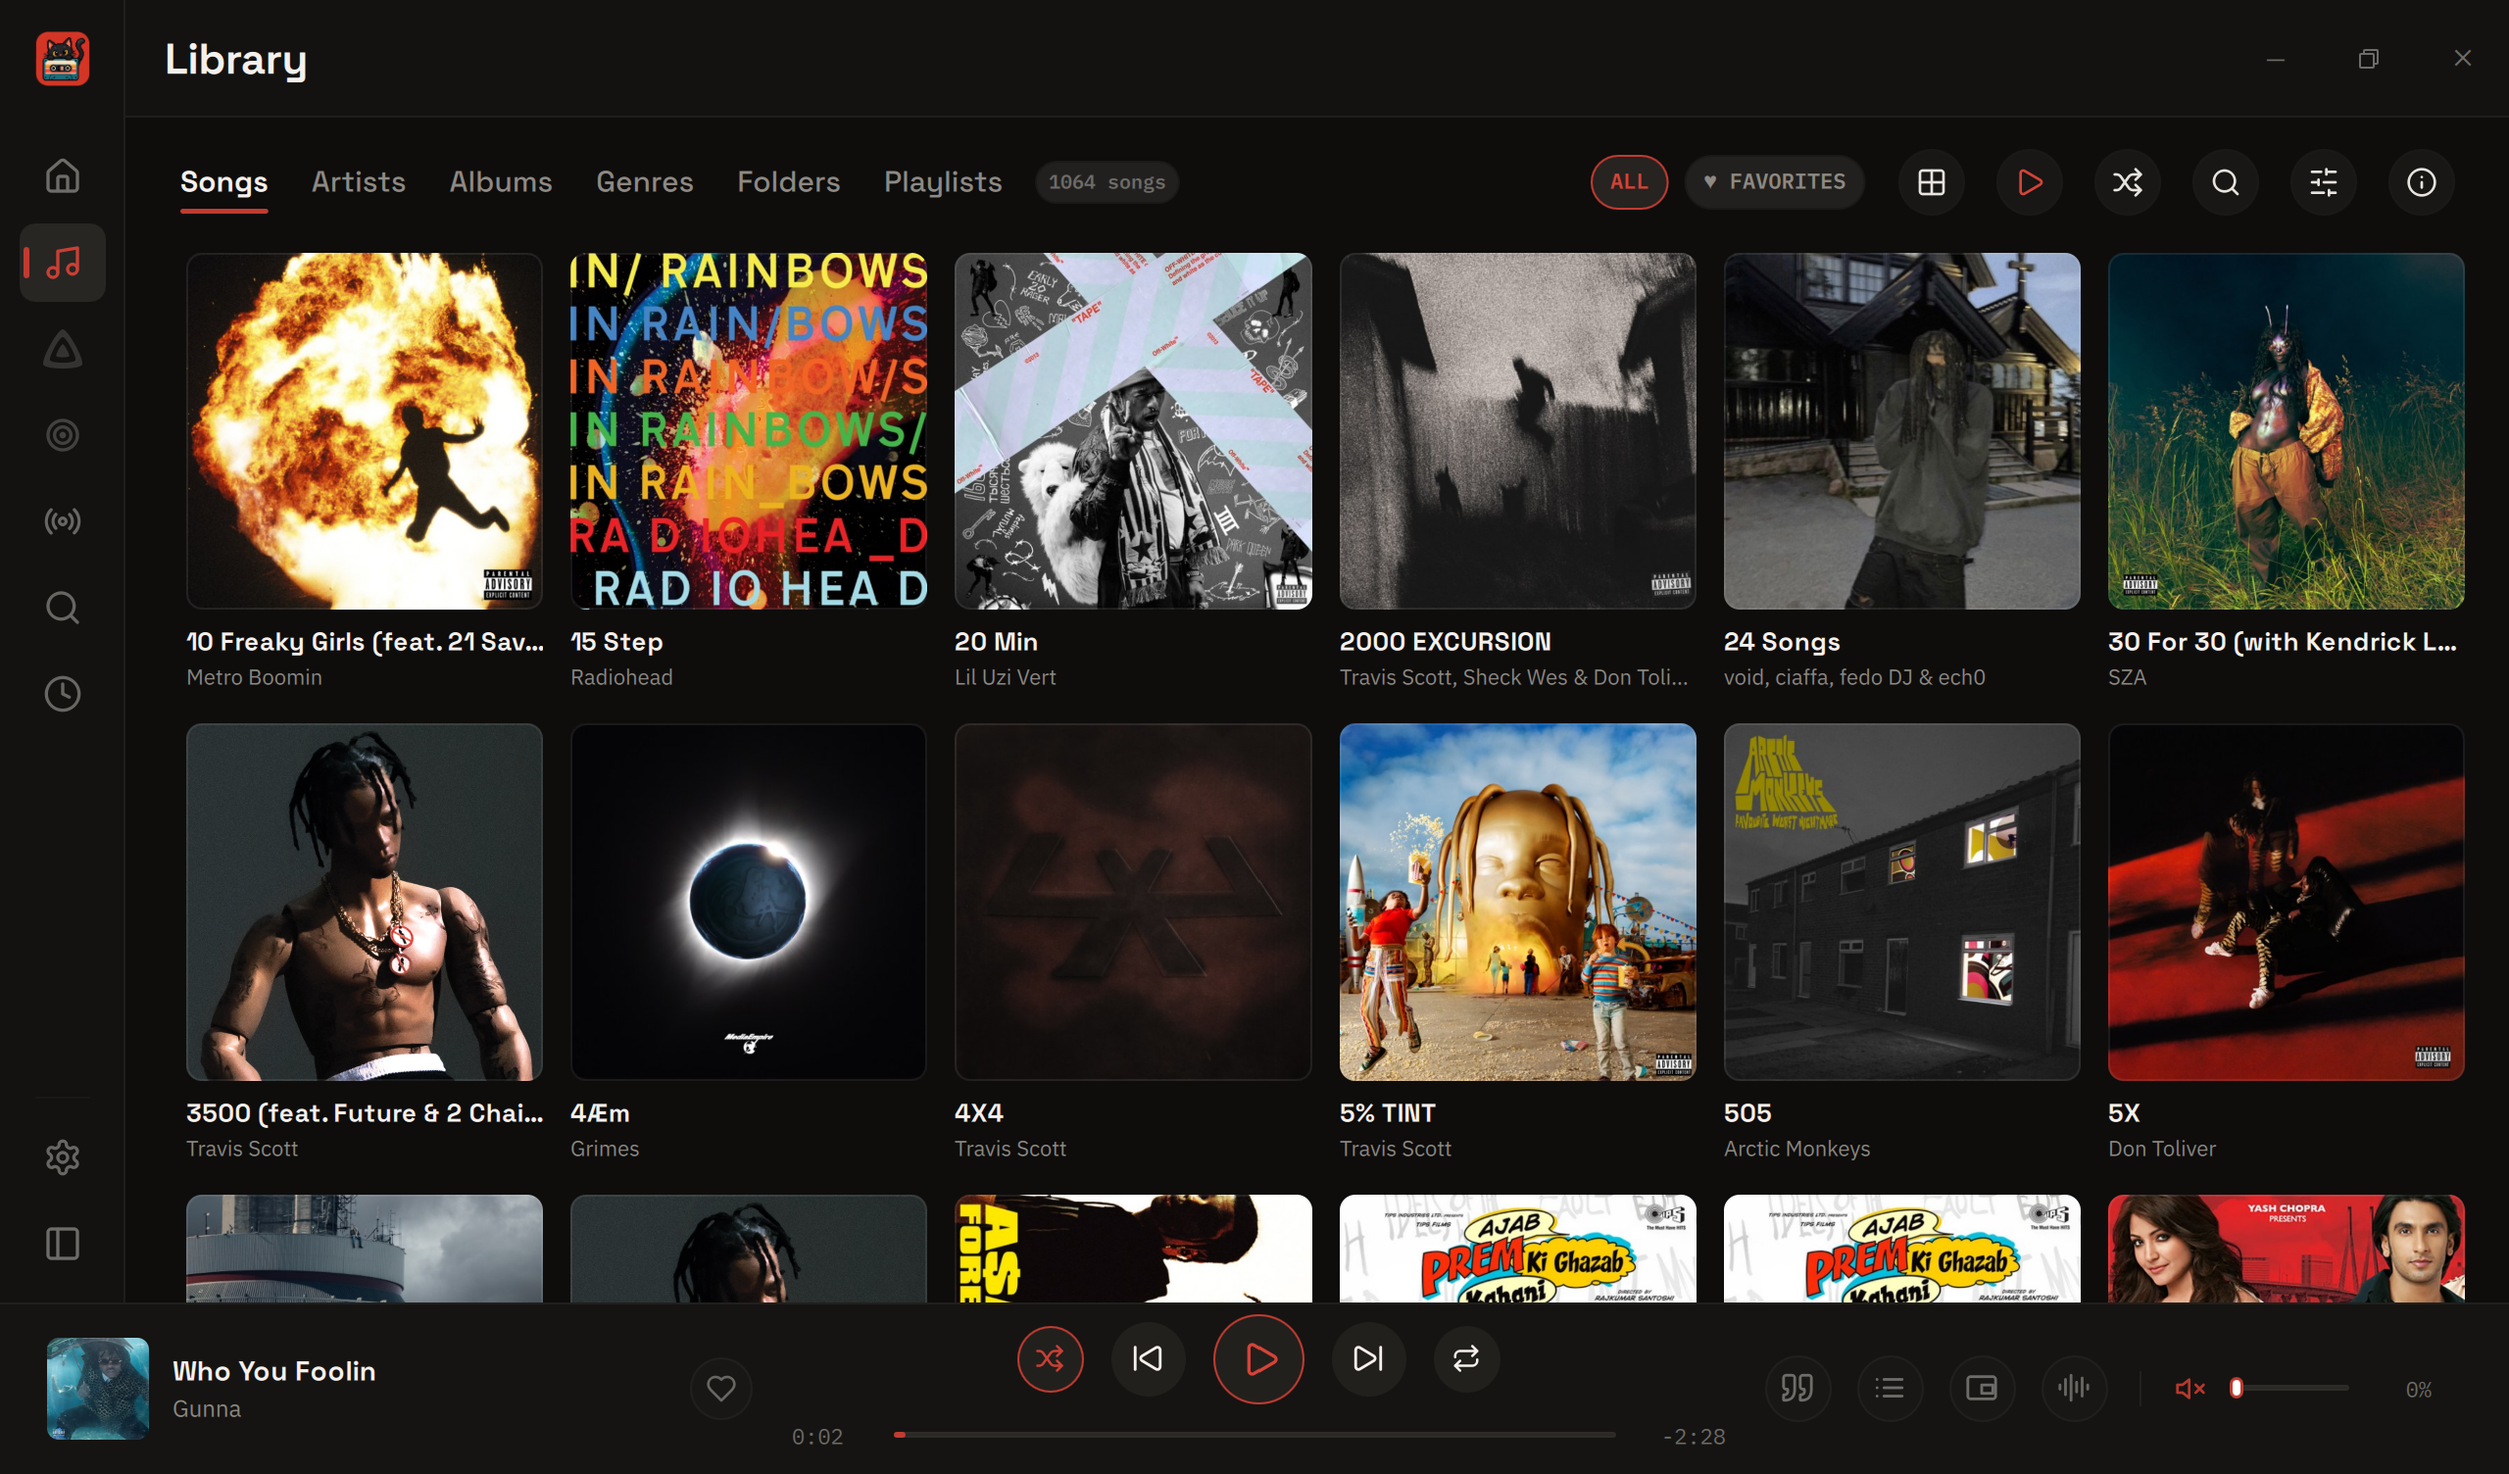
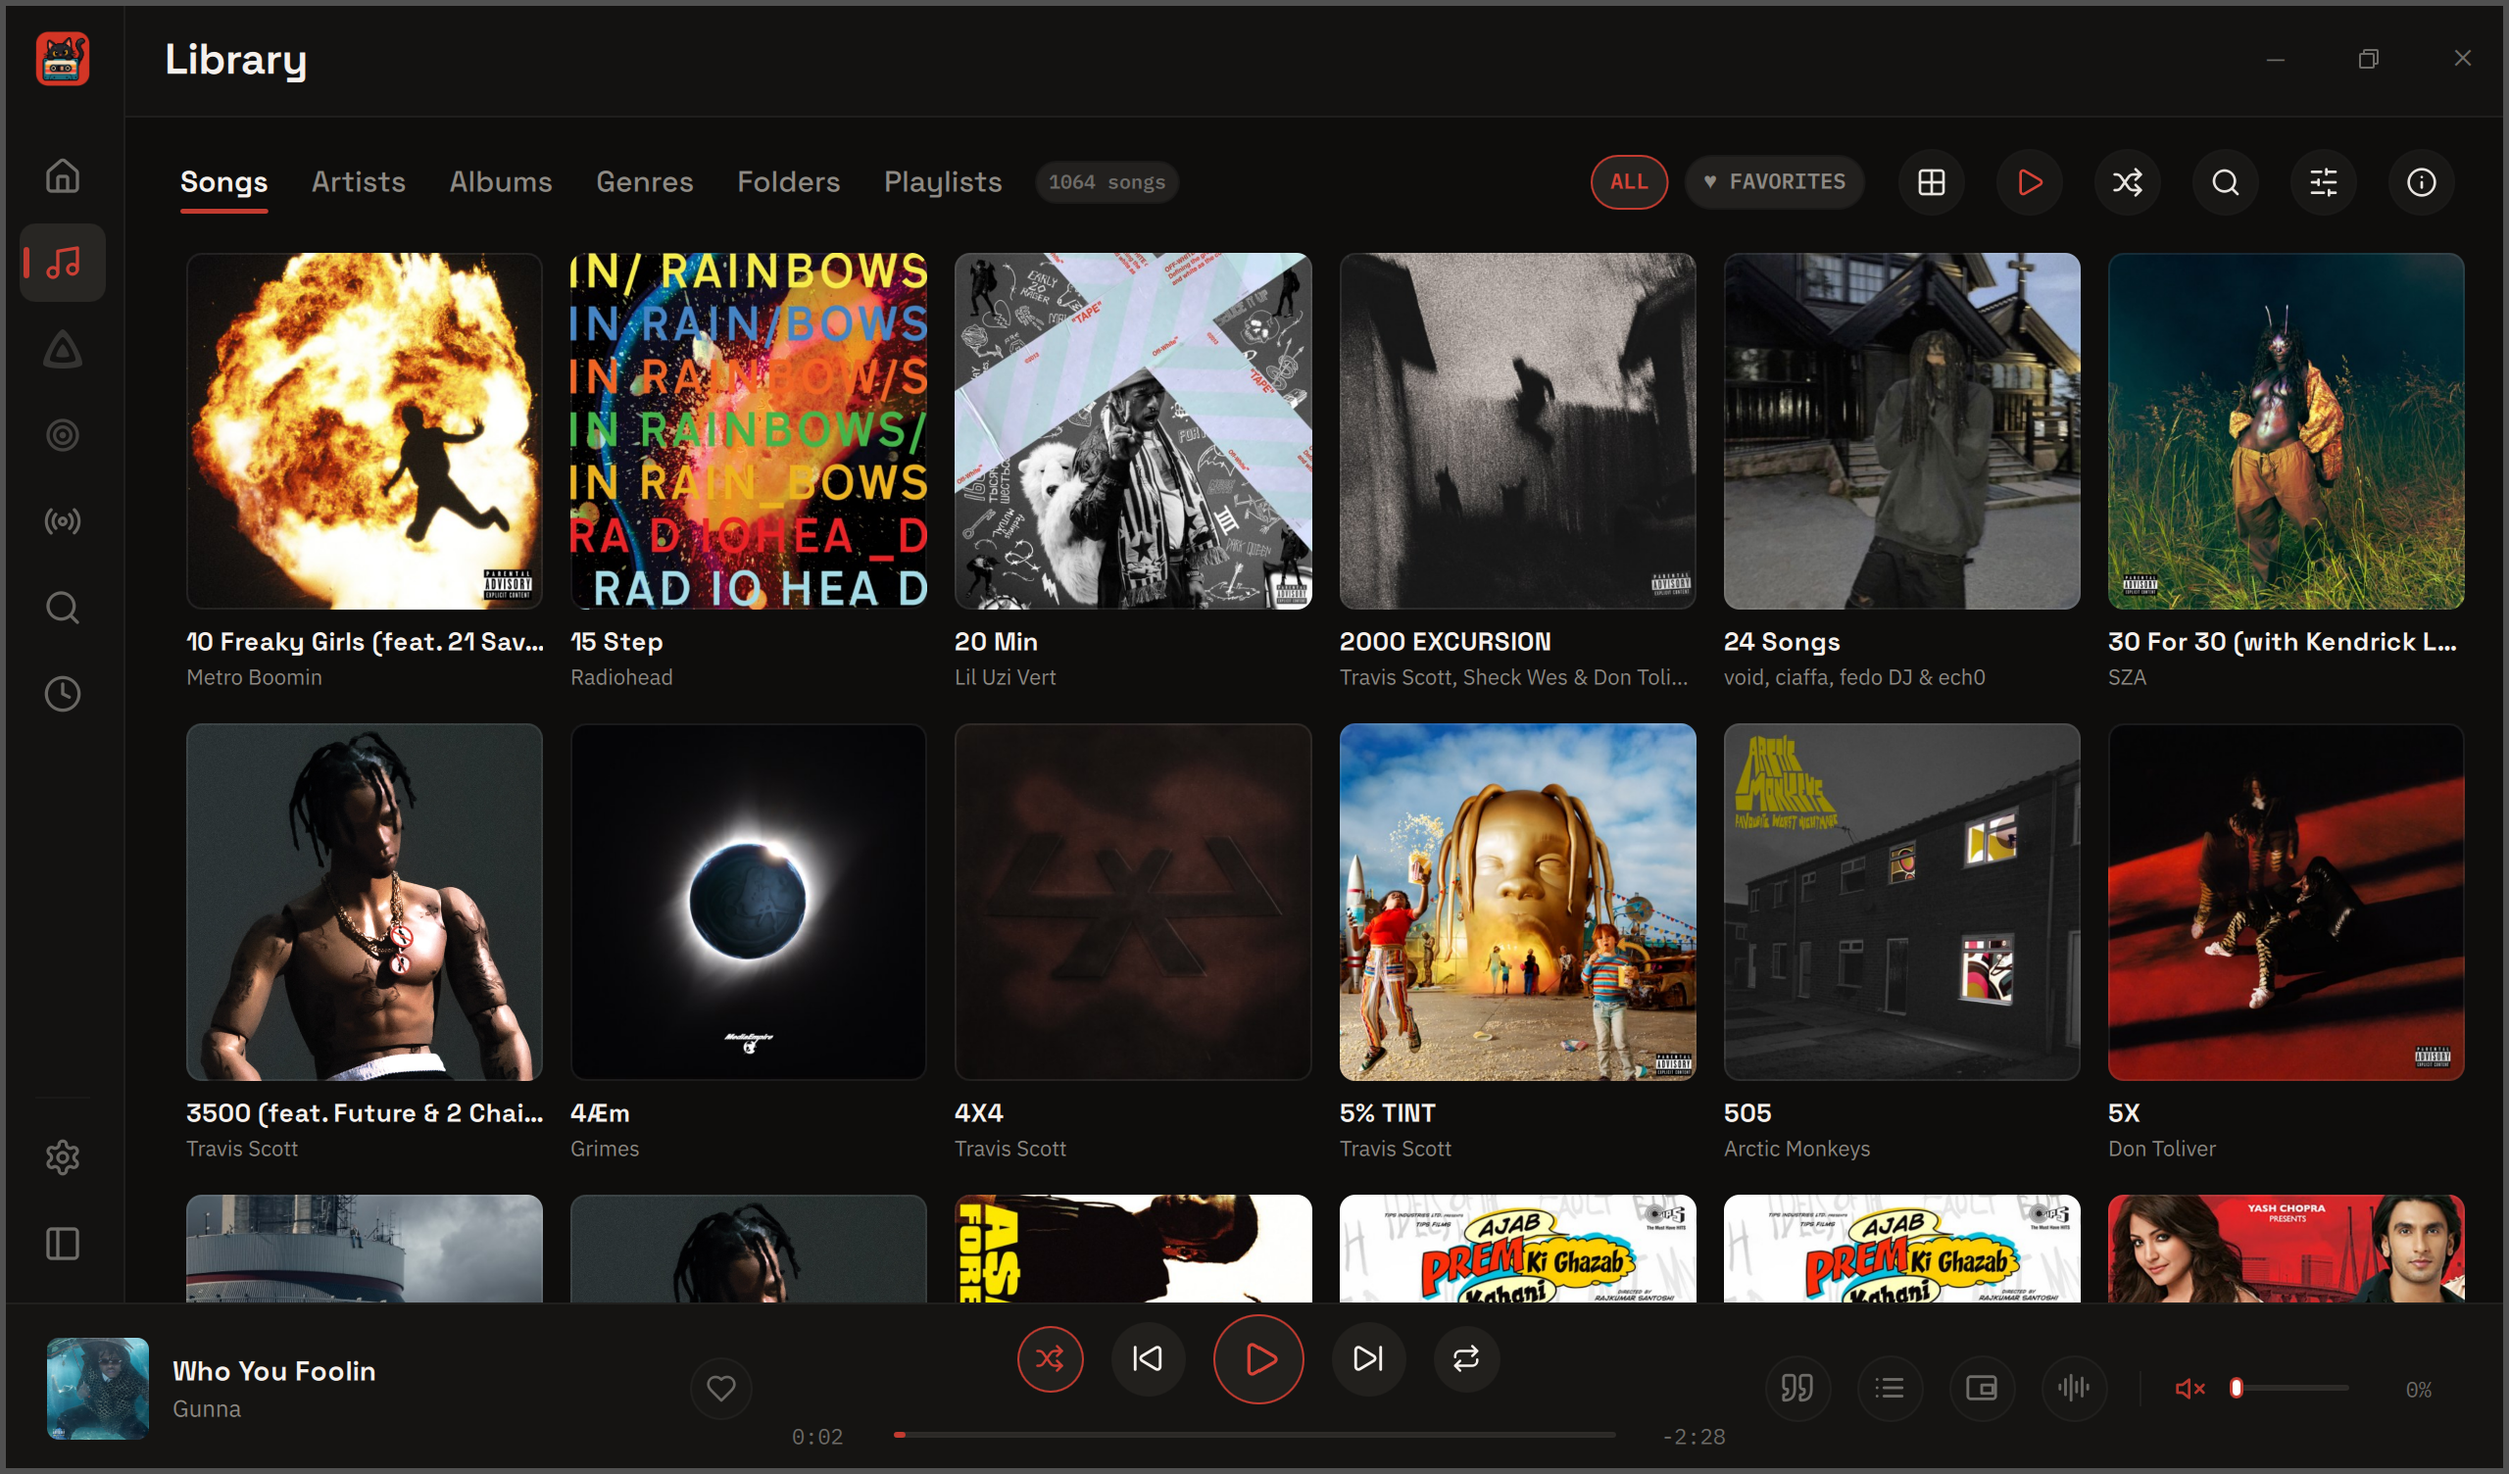
Rework the README and add borders to the screenshots
Shorter feature list, an install table instead of gh commands, build
steps that work on both platforms, and live release and download
badges. The screenshots get a grey border so they stand out on dark
backgrounds, since GitHub strips image styling.

Changed region(s): [[0.0, 0.9688, 1.0, 1.0], [0.0, 0.0, 1.0, 0.0312]]

diff --git a/README.md b/README.md
@@ -13,143 +13,80 @@
 </p>
 
 <p align="center">
-  <a href="https://github.com/samyyy2311/CassetteCat-Desktop/releases"><img src="https://img.shields.io/badge/Releases-E55B3C?style=flat-square&logo=git&logoColor=white" alt="Releases" /></a>
-  <a href="LICENSE"><img src="https://img.shields.io/badge/GPL--3.0--or--later-A42E2B?style=flat-square&logo=gnu&logoColor=white" alt="GPL-3.0-or-later" /></a>
-  <img src="https://img.shields.io/badge/Windows-0078D6?style=flat-square&logo=windows&logoColor=white" alt="Windows" />
-  <img src="https://img.shields.io/badge/Linux-FCC624?style=flat-square&logo=linux&logoColor=black" alt="Linux" />
-  <a href="https://www.qt.io"><img src="https://img.shields.io/badge/Qt%206-41CD52?style=flat-square&logo=qt&logoColor=white" alt="Qt 6" /></a>
-  <img src="https://img.shields.io/badge/C%2B%2B20-00599C?style=flat-square&logo=cplusplus&logoColor=white" alt="C++20" />
-  <a href="https://github.com/samyyy2311/CassetteCat-Desktop/releases"><img src="https://img.shields.io/github/downloads/samyyy2311/CassetteCat-Desktop/total?style=flat-square&label=Downloads&logo=github&logoColor=white" alt="GitHub downloads" /></a>
+  <a href="https://github.com/samyyy2311/CassetteCat-Desktop/releases/latest"><img src="https://img.shields.io/github/v/release/samyyy2311/CassetteCat-Desktop?style=flat-square&label=Release&color=E55B3C" alt="Latest release" /></a>
+  <a href="https://github.com/samyyy2311/CassetteCat-Desktop/releases"><img src="https://img.shields.io/github/downloads/samyyy2311/CassetteCat-Desktop/total?style=flat-square&label=Downloads&color=E55B3C" alt="Downloads" /></a>
+  <img src="https://img.shields.io/badge/Windows%20%7C%20Linux-1C1917?style=flat-square" alt="Windows and Linux" />
+  <a href="LICENSE"><img src="https://img.shields.io/badge/License-GPL--3.0--or--later-A42E2B?style=flat-square" alt="GPL-3.0-or-later" /></a>
 </p>
 
 <p align="center">
-  <a href="https://github.com/samyyy2311/CassetteCat-Desktop/releases/latest"><img src="https://img.shields.io/badge/Download%20latest%20release-E55B3C?style=for-the-badge&logo=github&logoColor=white" alt="Download latest release" /></a>
+  <a href="https://github.com/samyyy2311/CassetteCat-Desktop/releases/latest"><img src="https://img.shields.io/badge/Download-E55B3C?style=for-the-badge&logo=github&logoColor=white" alt="Download" /></a>
 </p>
 
 <p align="center">
   <img src="assets/screenshots/home.png" alt="CassetteCat Home screen" />
 </p>
 
----
+## Features
 
-## What it does
-
-### Your music, in one place
-
-- Choose a music folder and CassetteCat organises it by songs, artists, albums, and folders.
-- Search, sort, filter, build playlists, and keep favourites.
-- Discover recently added music and your most-played tracks from Home.
-- Every screen works from the keyboard, and shortcuts can be changed.
-
-### Playback
-
-- Play, queue, shuffle, repeat, and control your music without losing your place.
-- Use the floating MiniPlayer when you want simple controls on top of other windows.
-- Resume your queue after restarting, set a sleep timer, limit volume, or let playback continue automatically.
-- Even out loudness between songs with ReplayGain.
-- Control playback from media keys, the system tray, global shortcuts, and the Windows or Linux (MPRIS) media controls.
-
-### Listening Record
-
-- See your plays, listening time, top songs, artists, and albums, plus your full history.
-- Look back on each year with the Recap: listening time, top songs and artists, and your busiest month.
-- Plays count once most of the song has been heard, so a quick skip doesn't inflate the numbers.
-- Scrobble to Libre.fm or ListenBrainz, and show what you're playing as your Discord status.
-
-### Lyrics, artwork, and radio
-
-- Read local, embedded, or online synced lyrics, with search and timing adjustment when needed.
-- Show cover art from your files or the Cover Art Archive, and artist information when available.
-- Browse internet radio without leaving the app.
-
-### Yours to control
-
-- Connect a Jellyfin or Subsonic server if you use one.
-- Choose an accent colour, layout density, artwork style, and lyric appearance.
-- Back up or restore your settings, and use Offline Blackout Mode to stop every online lookup.
-- No account is required for your local library.
-
----
+- **Library.** Browse your music folder by songs, artists, albums, genres and folders, with search, favourites and playlists.
+- **Playback.** A queue that survives restarts, ReplayGain, a sleep timer and a floating mini player.
+- **Controls.** Media keys, global shortcuts, the tray, and the Windows and Linux media controls. Every screen works from the keyboard.
+- **Lyrics and artwork.** Synced lyrics from your files or LRCLIB, covers from your files or the Cover Art Archive, and artist pictures and bios.
+- **Listening Record.** Plays, listening time, top songs, artists and albums, full history, and a yearly Recap.
+- **Online extras.** Internet radio, Jellyfin and Subsonic, scrobbling to Libre.fm and ListenBrainz, and a Discord status.
+- **Privacy.** No account needed. Offline Blackout Mode turns every online lookup off.
 
 ## Screenshots
 
 <table>
   <tr>
-    <td><img src="assets/screenshots/library-albums.png" alt="Albums" /><p align="center">Albums</p></td>
-    <td><img src="assets/screenshots/now-playing.png" alt="Player" /><p align="center">Player</p></td>
+    <td><img src="assets/screenshots/library-albums.png" alt="Albums" /></td>
+    <td><img src="assets/screenshots/now-playing.png" alt="Player" /></td>
   </tr>
   <tr>
-    <td><img src="assets/screenshots/library-songs.png" alt="Songs" /><p align="center">Songs</p></td>
-    <td><img src="assets/screenshots/radio.png" alt="Radio" /><p align="center">Radio</p></td>
+    <td><img src="assets/screenshots/library-songs.png" alt="Songs" /></td>
+    <td><img src="assets/screenshots/radio.png" alt="Radio" /></td>
   </tr>
 </table>
 
----
+## Install
 
-## Download
+Download from the [latest release](https://github.com/samyyy2311/CassetteCat-Desktop/releases/latest).
 
-<p align="center">
-  Windows and Linux builds are available from the <a href="https://github.com/samyyy2311/CassetteCat-Desktop/releases">Releases page</a>.
-</p>
+| Platform | File | Notes |
+| --- | --- | --- |
+| Windows | `setup.exe` | Installer, with optional file associations |
+| Windows | `.zip` | Portable. Run `CassetteCat\bin\CassetteCat.exe` |
+| Linux | `.AppImage` | Runs on most distributions. Make it executable and run it |
+| Linux | `.flatpak` | Install with `flatpak install --user` and the file name |
+| Linux | `.deb` | Debian, Ubuntu and derivatives |
+| Linux | `.rpm` | Fedora, openSUSE and derivatives |
+| Linux | `.tar.gz` | Portable. Run `CassetteCat/bin/CassetteCat` |
 
-### Linux
-
-Choose the package that matches your distribution:
-
-1. **AppImage** — broad portable option; make it executable and run it.
-2. **Flatpak** — sandboxed option for distributions with Flatpak support.
-3. **DEB** — Debian, Ubuntu, Mint, Pop!_OS, and compatible systems.
-4. **RPM** — Fedora, RHEL-compatible, and compatible openSUSE systems.
-5. **tar.gz** — manual portable install.
-
-The release page contains all five formats for x86_64 Linux. Package support
-depends on the runtime libraries provided by the target distribution.
-
-For the portable archive:
-
-```bash
-gh release download --repo samyyy2311/CassetteCat-Desktop --pattern '*linux-x64.tar.gz'
-tar -xzf CassetteCat-*-linux-x64.tar.gz
-./CassetteCat/bin/CassetteCat
-```
-
-### Windows
-
-The installer adds a Start menu entry and can optionally associate common audio files with CassetteCat. The ZIP remains portable:
-
-```powershell
-gh release download --repo samyyy2311/CassetteCat-Desktop --pattern '*windows-x64.zip'
-$archive = Get-ChildItem 'CassetteCat-*-windows-x64.zip' | Select-Object -First 1
-Expand-Archive $archive.FullName .\CassetteCat
-.\CassetteCat\CassetteCat\bin\CassetteCat.exe
-```
+Linux builds are x86_64. Each release includes `SHA256SUMS.txt` to verify downloads.
 
 ## Build from source
 
-You need Qt 6.10 or newer (with Qt Quick, Quick Controls 2, Multimedia, and Network), CMake 3.24 or newer, and Ninja. Linux builds also need the libsecret development headers, such as `libsecret-1-dev` on Debian and Ubuntu.
+Requires Qt 6.10 or newer (Quick, Quick Controls 2, Multimedia, Network), CMake 3.24 or newer, and Ninja. On Linux, also install the libsecret headers (`libsecret-1-dev` on Debian and Ubuntu).
 
-```powershell
+```bash
 cmake --preset dev
 cmake --build --preset dev
-.\build\dev\CassetteCat.exe
 ```
 
-Run the self-check and the test suite with:
+The app is built to `build/dev/`. Run the checks with:
 
-```powershell
-.\build\dev\CassetteCat.exe --self-check
+```bash
+build/dev/CassetteCat --self-check
 ctest --test-dir build/dev --output-on-failure
 ```
-
----
 
 ## Contributing
 
 Contributions are welcome. Read [CONTRIBUTING.md](CONTRIBUTING.md) before
 opening a pull request. For security issues, read
 [SECURITY.md](.github/SECURITY.md).
-
----
 
 ## Support
 
@@ -178,8 +115,6 @@ opening a pull request. For security issues, read
 - <a href="https://github.com/IBM/plex"><img src="https://img.shields.io/badge/IBM%20Plex-0F62FE?style=flat-square&logo=ibm&logoColor=white" alt="IBM Plex" /></a> and <a href="https://github.com/floriankarsten/space-grotesk"><img src="https://img.shields.io/badge/Space%20Grotesk-242424?style=flat-square" alt="Space Grotesk" /></a> Typefaces.
 
 See [THIRD_PARTY_NOTICES.md](THIRD_PARTY_NOTICES.md) for all included notices.
-
----
 
 ## License
 
